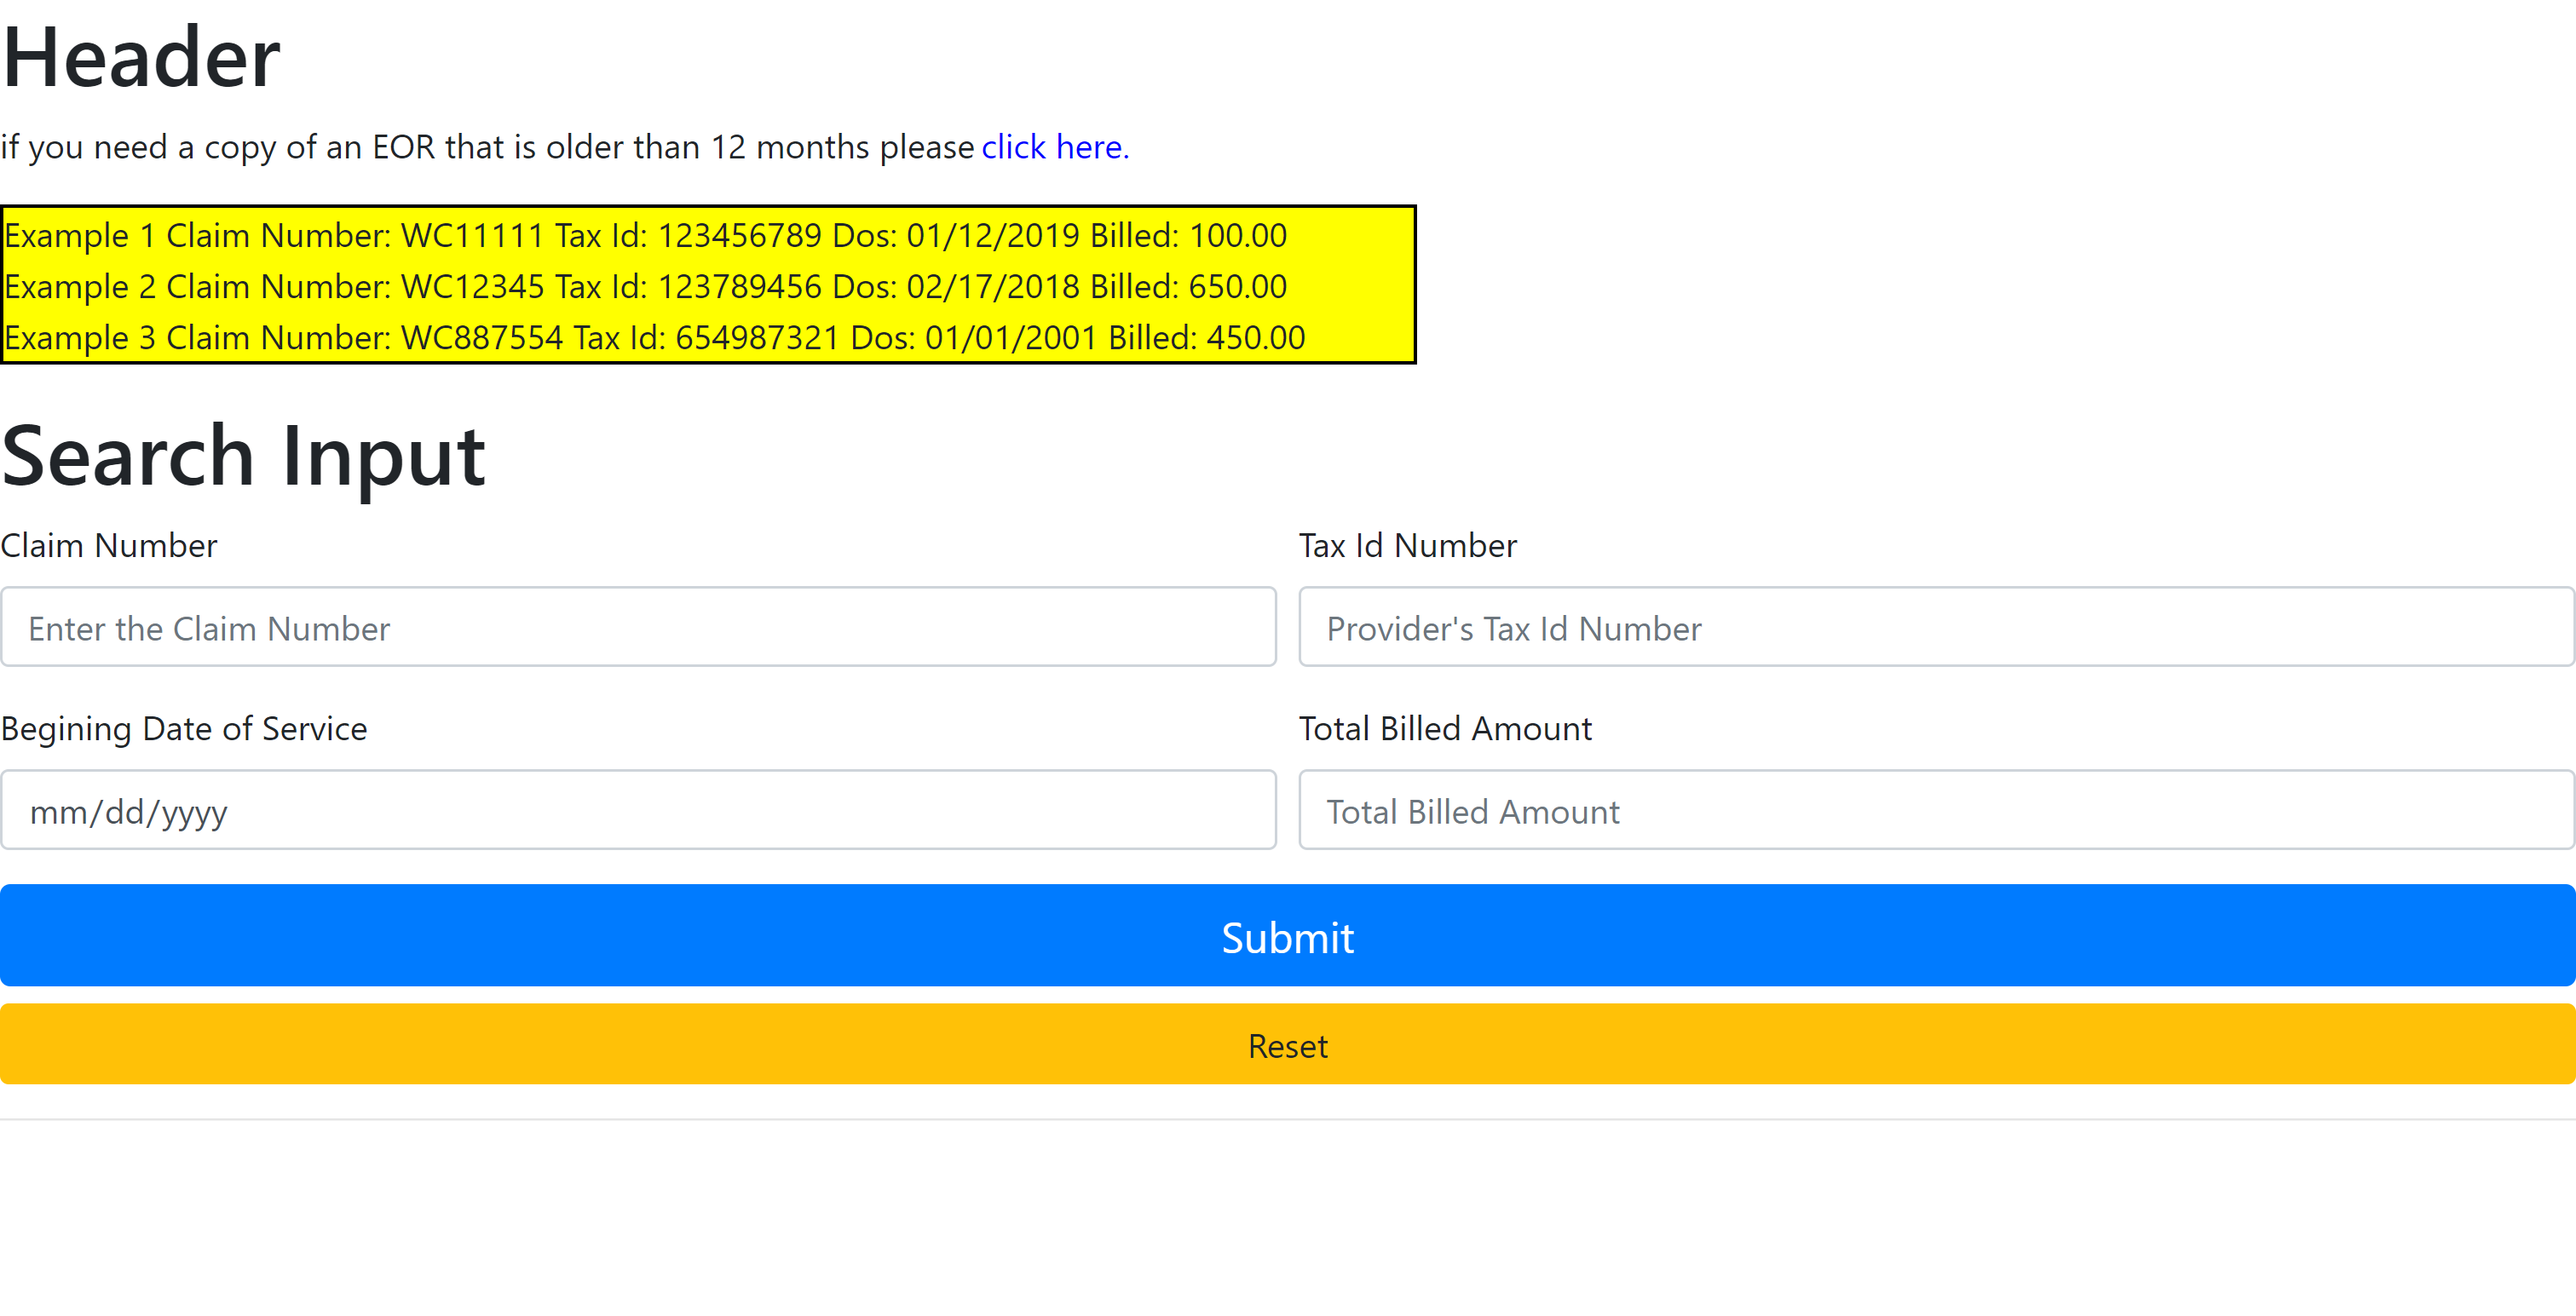
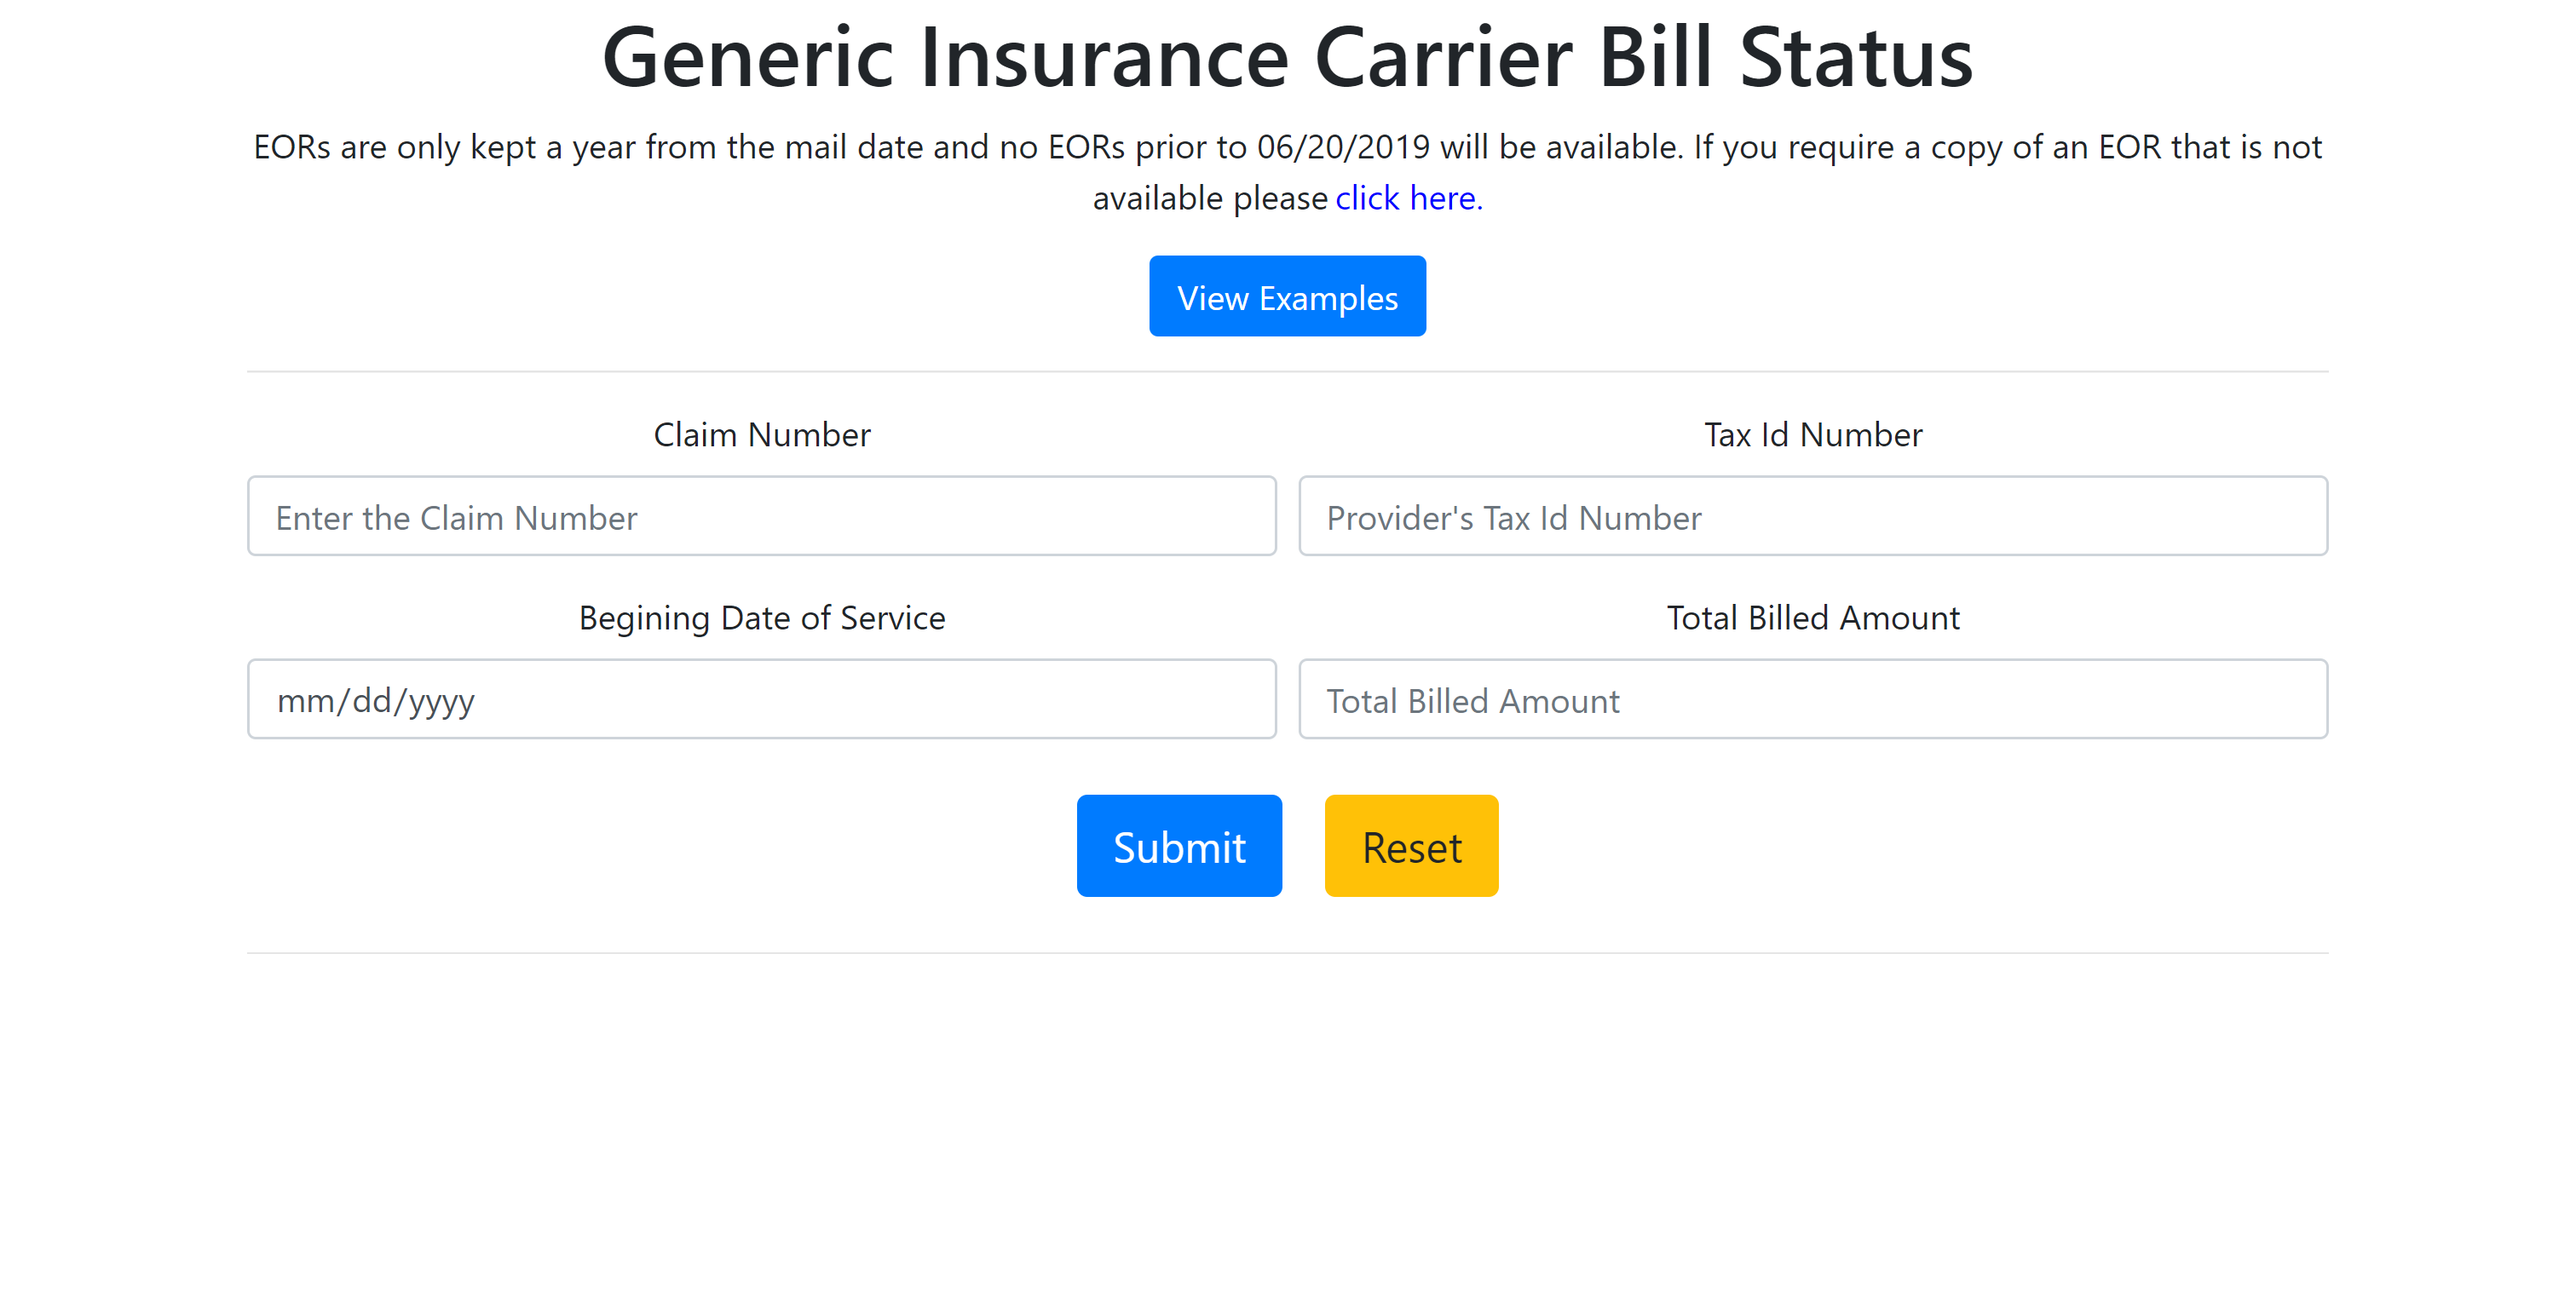
changes to a project text and image

diff --git a/projects.html b/projects.html
@@ -61,18 +61,21 @@
         <div class="card">
             <img class="card-img-top" src="/eor.png" alt="EOR search page">
             <div class="card-body">
-                <h5 class="card-title">Explanation of Review Lookup Application (Work in Progress)</h5>
+                <h5 class="card-title">Medical Bill Status Application (Work in Progress)</h5>
                 <a class='card-link' href="https://eor-client-5811.herokuapp.com//" target='_blank'>Go to the site</a>
-                <a class='card-link' href="https://github.com/Johnny-Free/eor" target='_blank'>Go to the GitHub</a>
+                <a class='card-link' href="https://github.com/Johnny-Free/eor-client" target='_blank'>Go to the GitHub (Client)</a>
+                <a class='card-link' href="https://github.com/Johnny-Free/eor-api" target='_blank'>Go to the GitHub (API)</a>
                 <hr>
                 <p class="card-text">
-                    This application was developed with React, NodeJs and ***Email client***. </br></br>
-                    The application was developed as an explanation of review look up for medical providers. 
-                    This allows the medical provider to perform a search with specific criteria only known to them. 
-                    The results would be an electronic explanation of review. For the insurance carrier this cuts down 
-                    on the number of calls seeking status of an audit and also reduces the need for the insurance carrier 
-                    to work request for copies of explanation of review. When an explanation of review is not found the 
-                    medical provider can submit a request for a copy to be emailed to them
+                    This application was developed with React, NodeJs, nodemail and Postgres . </br></br>
+                    The intent of this application was to give medical providers a portal to search
+                    for medical audits to determin if the insurance carrier received the bill, where it 
+                    was in the process and obtain a copy of an explaination of review if the audit was 
+                    complete. If the explanation of review is not in the system due to age the medical provider
+                    can email directly from the application a copy request. Typicaly providers call the insurance 
+                    carriers requesting this information and depending on the carrier there can be long waits. 
+                    On the carrier's side this frees staff from having to answer phone calls and faxing/emailing 
+                    copies of explaination of reviews.
                 </p>
             </div>
         </div>
